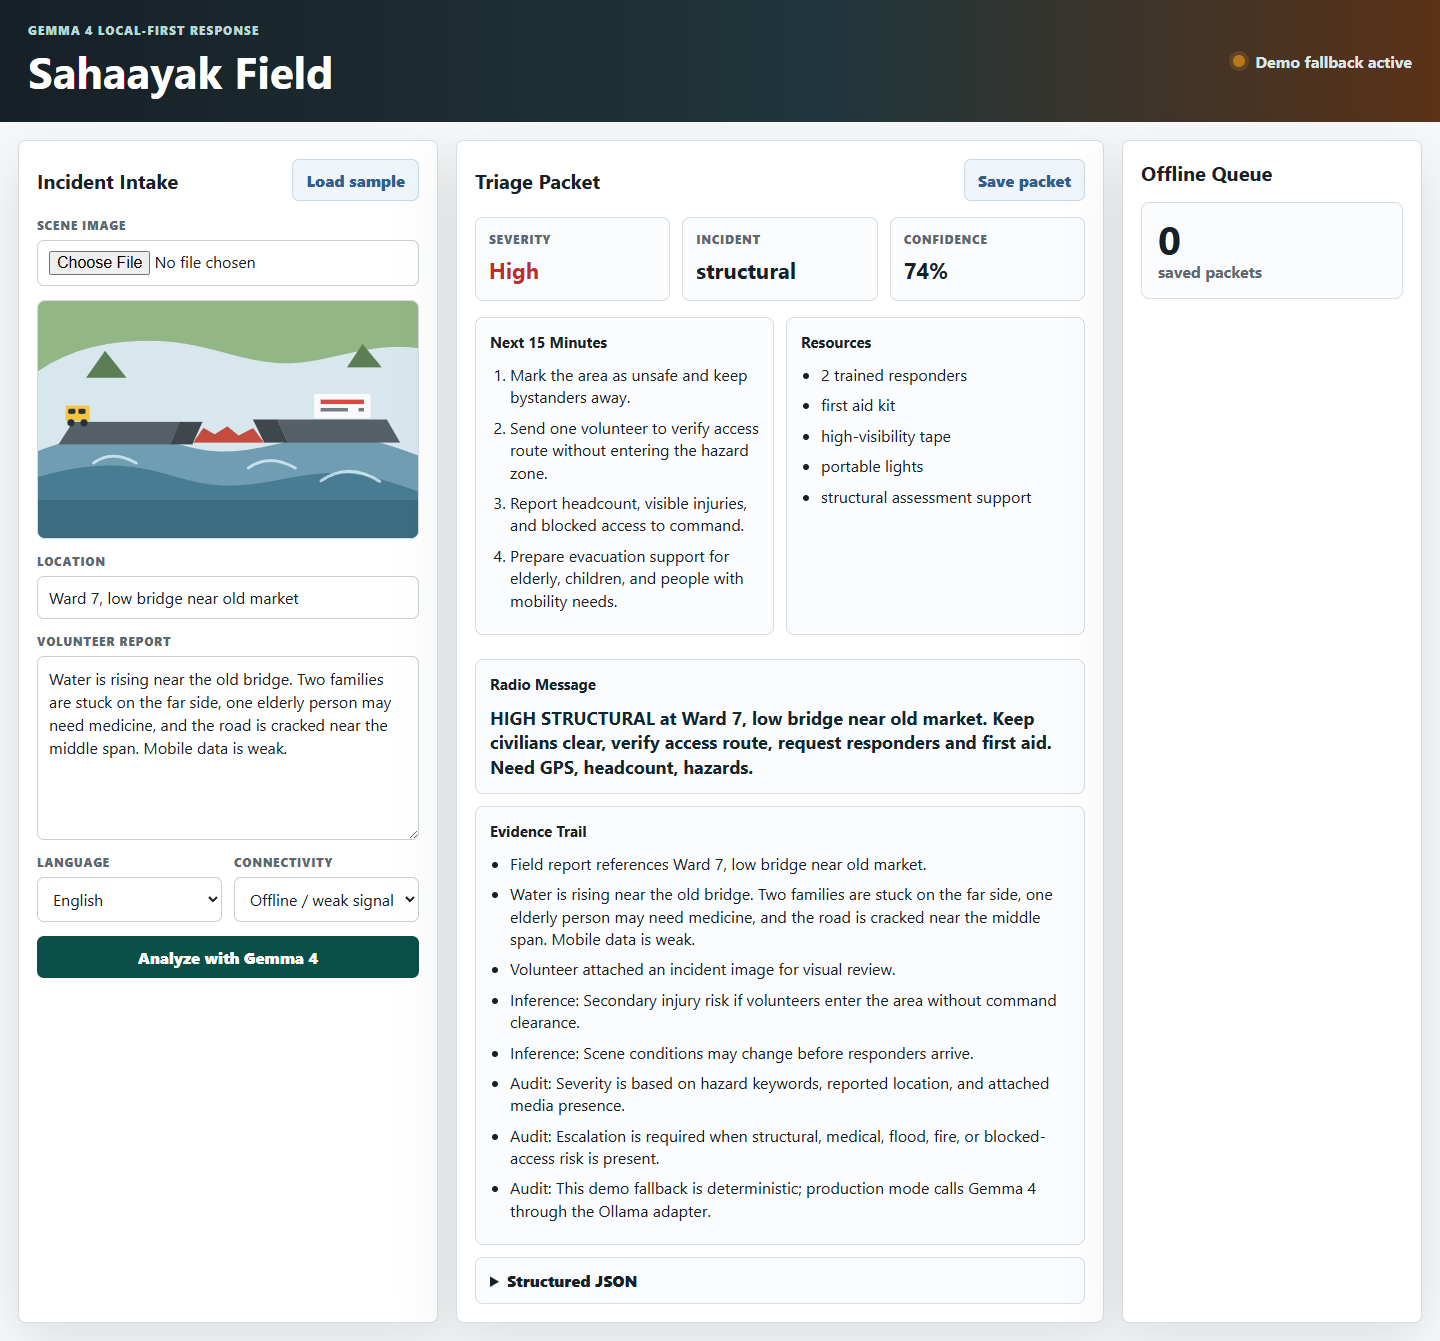
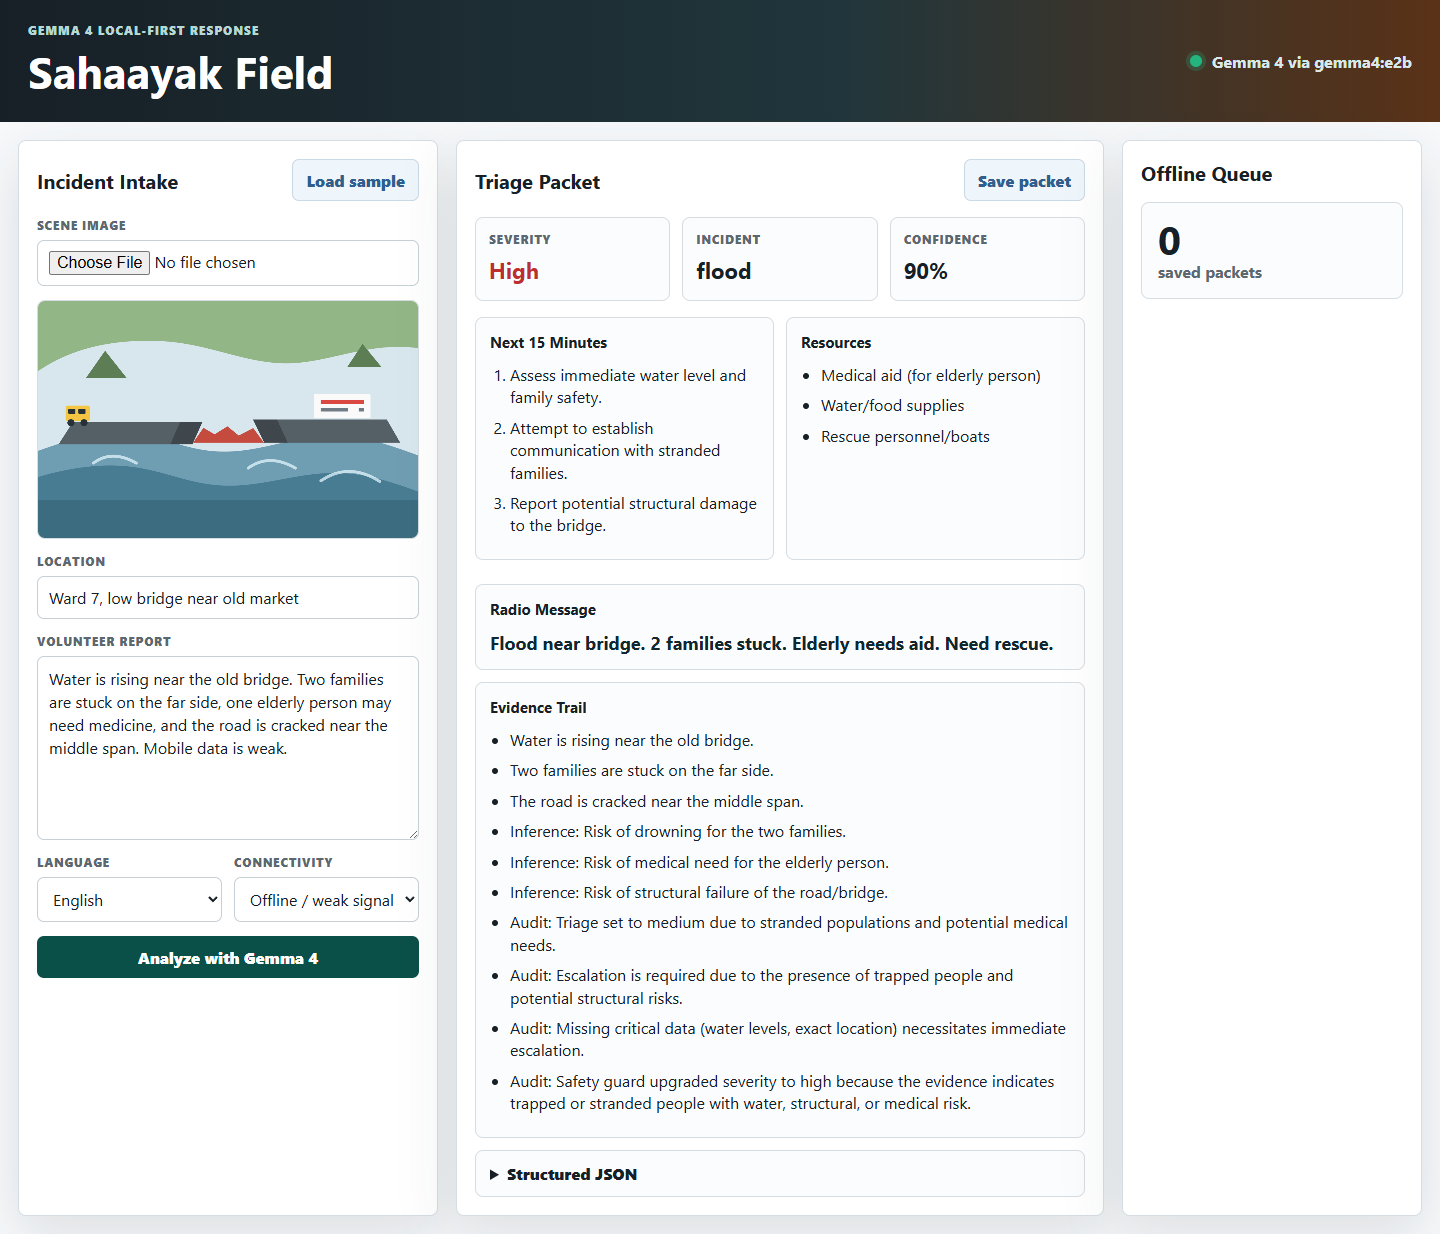
Wire demo to local Gemma 4 via Ollama

diff --git a/public/index.html b/public/index.html
@@ -30,7 +30,7 @@
           <input id="imageInput" type="file" accept="image/*">
         </label>
 
-        <img id="preview" class="preview" src="/assets/sample-incident.svg" alt="Flooded road and damaged bridge sample scene">
+        <img id="preview" class="preview" src="/assets/sample-incident.png" alt="Flooded road and damaged bridge sample scene">
 
         <label class="field">
           <span>Location</span>

diff --git a/public/app.js b/public/app.js
@@ -110,7 +110,7 @@ async function fileToDataUrl(file) {
 }
 
 async function loadSampleImage() {
-  const response = await fetch("/assets/sample-incident.svg");
+  const response = await fetch("/assets/sample-incident.png");
   const blob = await response.blob();
   imageData = await fileToDataUrl(blob);
   elements.preview.src = imageData;

diff --git a/docs/writeup-draft.md b/docs/writeup-draft.md
@@ -11,7 +11,7 @@ The prototype demonstrates a low-connectivity workflow for trained volunteers. T
 
 ## Architecture
 
-The app has three layers. The browser layer provides incident intake, image preview, triage display, structured JSON output, and offline packet storage through localStorage. The Node layer serves the app and exposes `/api/analyze`. The model layer calls Gemma 4 through an Ollama-compatible local chat endpoint. The model name and endpoint are configurable with `GEMMA_MODEL` and `OLLAMA_URL`, allowing the same interface to run against different Gemma 4 variants and local runtimes.
+The app has three layers. The browser layer provides incident intake, image preview, triage display, structured JSON output, and offline packet storage through localStorage. The Node layer serves the app and exposes `/api/analyze`. The model layer calls Gemma 4 through an Ollama-compatible local chat endpoint. The current demo uses `gemma4:e2b`, a local GGUF model pulled through Ollama. The model name and endpoint are configurable with `GEMMA_MODEL` and `OLLAMA_URL`, allowing the same interface to run against different Gemma 4 variants and local runtimes.
 
 For development safety, the repository includes an explicit deterministic fallback when Ollama is unavailable. This fallback is labeled in the UI and exists only to keep the demo operable on machines where Gemma 4 has not been installed. The final submission run uses the real Gemma 4 adapter, visible in the status bar and verified by server logs.
 
@@ -27,7 +27,7 @@ This project intentionally wraps the model with product constraints. The UI show
 
 We chose a small, dependency-light web prototype because hackathon judging rewards a working product over a complex stack. Node's built-in HTTP server keeps setup simple, while the browser UI is fast enough to run on modest laptops. Ollama is used as the first local runtime target because it is easy for judges and developers to reproduce. The architecture leaves room for a mobile build using LiteRT or a resource-constrained build using llama.cpp.
 
-The model output is constrained to a fixed schema so downstream systems can validate, store, transmit, and review each packet. The severity decision is not hidden: the app displays observed facts, inferred risks, and audit notes. This matters because emergency response workflows require trust, not just fluency.
+The model output is constrained to a fixed schema so downstream systems can validate, store, transmit, and review each packet. The Node layer also applies a deterministic safety guard: if evidence indicates trapped or stranded people with rising water, structural risk, or medical risk, severity is upgraded to at least high and the reason is appended to the audit trail. The severity decision is not hidden: the app displays observed facts, inferred risks, and audit notes. This matters because emergency response workflows require trust, not just fluency.
 
 ## Challenges
 
@@ -36,4 +36,3 @@ The hardest design challenge was balancing speed with responsibility. A field as
 ## Impact
 
 Sahaayak Field is a proof of concept for community-scale resilience. It can help volunteers produce better incident reports, reduce command-center ambiguity, and preserve an auditable record of early decisions. In future versions, the same architecture can ingest local standard operating procedures, shelter capacity lists, supply inventories, and offline maps. The goal is not to replace responders. The goal is to give them a faster, clearer, more trustworthy first packet when every minute matters.
-

diff --git a/README.md b/README.md
@@ -2,7 +2,7 @@
 
 Local-first disaster triage assistant for the Kaggle Gemma 4 Good Hackathon.
 
-Sahaayak Field helps trained volunteers turn messy field evidence into an auditable response packet when connectivity is weak. A volunteer can submit a scene image, short report, location hint, language preference, and connectivity state. Gemma 4 returns a structured incident type, severity, next actions, resource request, radio message, and evidence trail.
+Sahaayak Field helps trained volunteers turn messy field evidence into an auditable response packet when connectivity is weak. A volunteer can submit a scene image, short report, location hint, language preference, and connectivity state. Gemma 4 returns a structured incident type, severity, next actions, resource request, radio message, and evidence trail. A deterministic safety guard validates Gemma's packet and upgrades severity when evidence indicates trapped people, rising water, structural danger, or medical risk.
 
 ![Sahaayak Field demo](media/app-screenshot.png)
 
@@ -31,6 +31,12 @@ Requirements:
 - Node.js 20 or newer
 - Optional: Ollama with a Gemma 4 model pulled locally
 
+One-command local model setup on Windows:
+
+```powershell
+.\scripts\setup-gemma.ps1
+```
+
 Start the app:
 
 ```powershell
@@ -46,7 +52,7 @@ http://localhost:4173
 Use a local Gemma 4 model through Ollama:
 
 ```powershell
-$env:GEMMA_MODEL="gemma4:e4b"
+$env:GEMMA_MODEL="gemma4:e2b"
 $env:OLLAMA_URL="http://localhost:11434/api/chat"
 npm start
 ```
@@ -63,6 +69,7 @@ The app falls back to deterministic demo output if Ollama is not reachable. For 
 ## Repository Map
 
 - `server.mjs` - Static server and Gemma 4/Ollama inference adapter
+- `scripts/setup-gemma.ps1` - Windows setup helper for Ollama and `gemma4:e2b`
 - `prompts/gemma-system.md` - Safety-focused system prompt
 - `public/` - Browser app, styles, client logic, sample incident asset
 - `docs/writeup-draft.md` - Kaggle Writeup draft under 1,500 words
